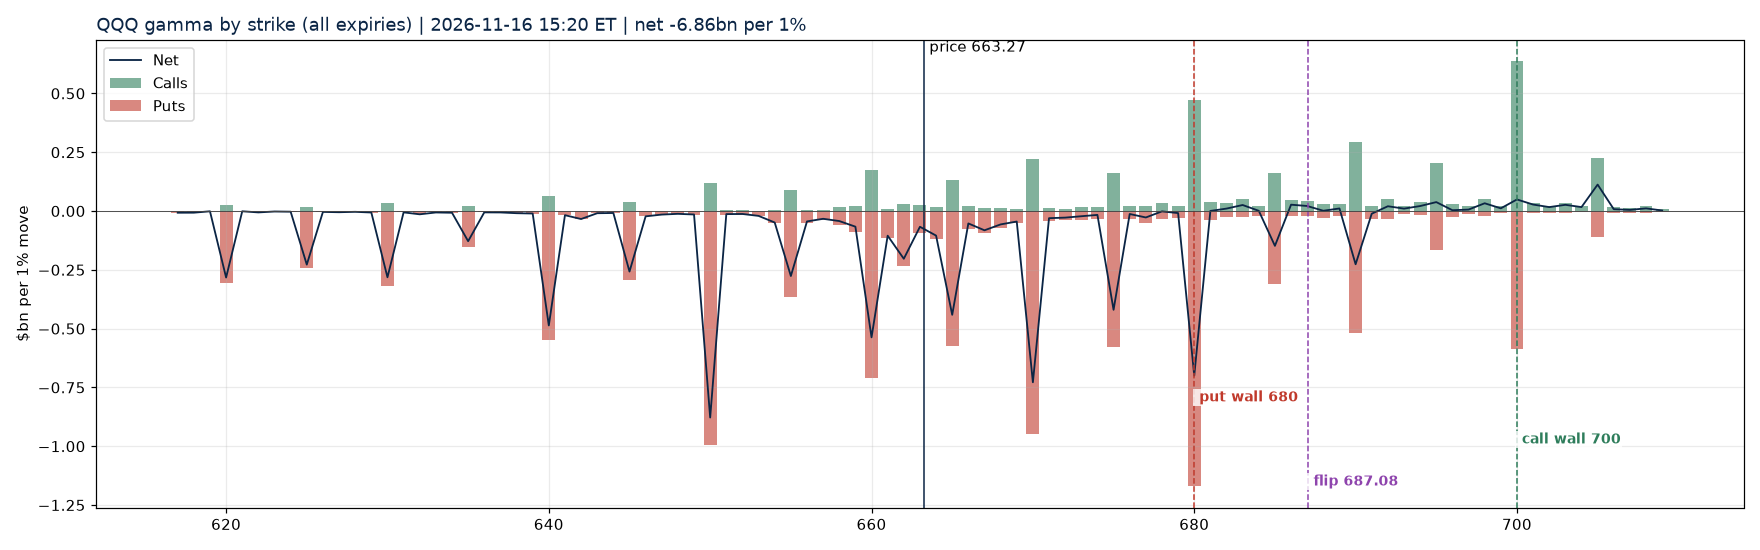
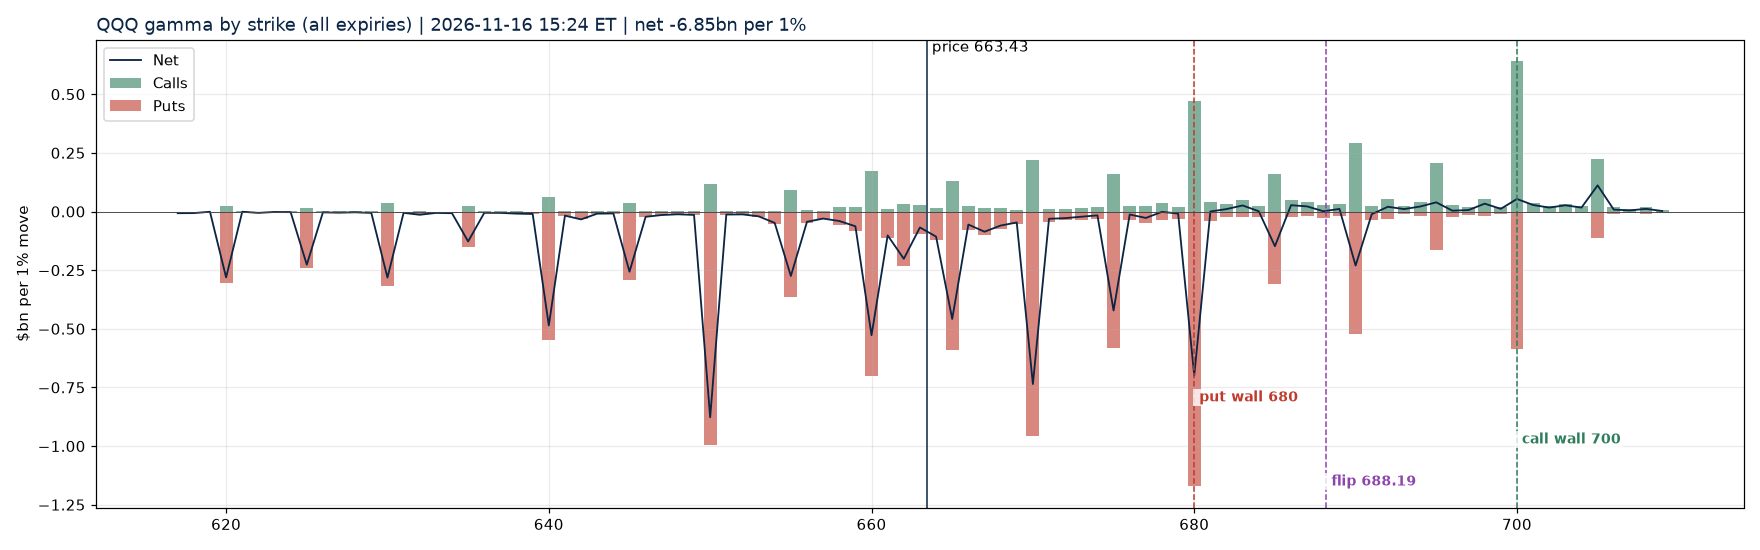
snapshot 2026-11-16T20:25Z

diff --git a/docs/index.html b/docs/index.html
@@ -5,19 +5,19 @@ img{width:100%;margin:8px 0;border:1px solid #eee}table{border-collapse:collapse
 td,th{border:1px solid #ddd;padding:6px 10px;text-align:center}.neg{color:#c0392b;font-weight:600}
 .pos{color:#2e7d5b;font-weight:600}small{color:#888;font-weight:400}footer{color:#888;font-size:12px}</style></head>
 <body><h1>Dealer gamma tracker</h1>
-<section><h2>SPY <small>2026-11-16 15:20 ET</small></h2>
+<section><h2>SPY <small>2026-11-16 15:24 ET</small></h2>
 <p class="neg">NEGATIVE gamma: dealer hedging adds to moves</p>
 <table><tr><th>Price</th><th>Net gamma ($bn / 1%)</th><th>Gamma flip</th><th>Call wall</th><th>Put wall</th><th>Put/call volume</th></tr>
-<tr><td>740.14</td><td>-15.73</td><td>755.35</td><td>775</td><td>740</td><td>1.382</td></tr></table>
-<img src="SPY_timeline.png?v=1794860501" onerror="this.style.display='none'">
-<img src="SPY_profile.png?v=1794860501" onerror="this.style.display='none'">
+<tr><td>740.2</td><td>-15.73</td><td>756.11</td><td>775</td><td>740</td><td>1.381</td></tr></table>
+<img src="SPY_timeline.png?v=1794860703" onerror="this.style.display='none'">
+<img src="SPY_profile.png?v=1794860703" onerror="this.style.display='none'">
 </section>
-<section><h2>QQQ <small>2026-11-16 15:20 ET</small></h2>
+<section><h2>QQQ <small>2026-11-16 15:24 ET</small></h2>
 <p class="neg">NEGATIVE gamma: dealer hedging adds to moves</p>
 <table><tr><th>Price</th><th>Net gamma ($bn / 1%)</th><th>Gamma flip</th><th>Call wall</th><th>Put wall</th><th>Put/call volume</th></tr>
-<tr><td>663.27</td><td>-6.86</td><td>687.08</td><td>700</td><td>680</td><td>1.06</td></tr></table>
-<img src="QQQ_timeline.png?v=1794860501" onerror="this.style.display='none'">
-<img src="QQQ_profile.png?v=1794860501" onerror="this.style.display='none'">
+<tr><td>663.43</td><td>-6.85</td><td>688.19</td><td>700</td><td>680</td><td>1.06</td></tr></table>
+<img src="QQQ_timeline.png?v=1794860703" onerror="this.style.display='none'">
+<img src="QQQ_profile.png?v=1794860703" onerror="this.style.display='none'">
 </section>
 <footer>Free Cboe delayed data, ~15 min delay. Estimates assume dealers are long calls and short puts.
 Not investment advice. Page refreshes every 5 minutes.</footer></body></html>
